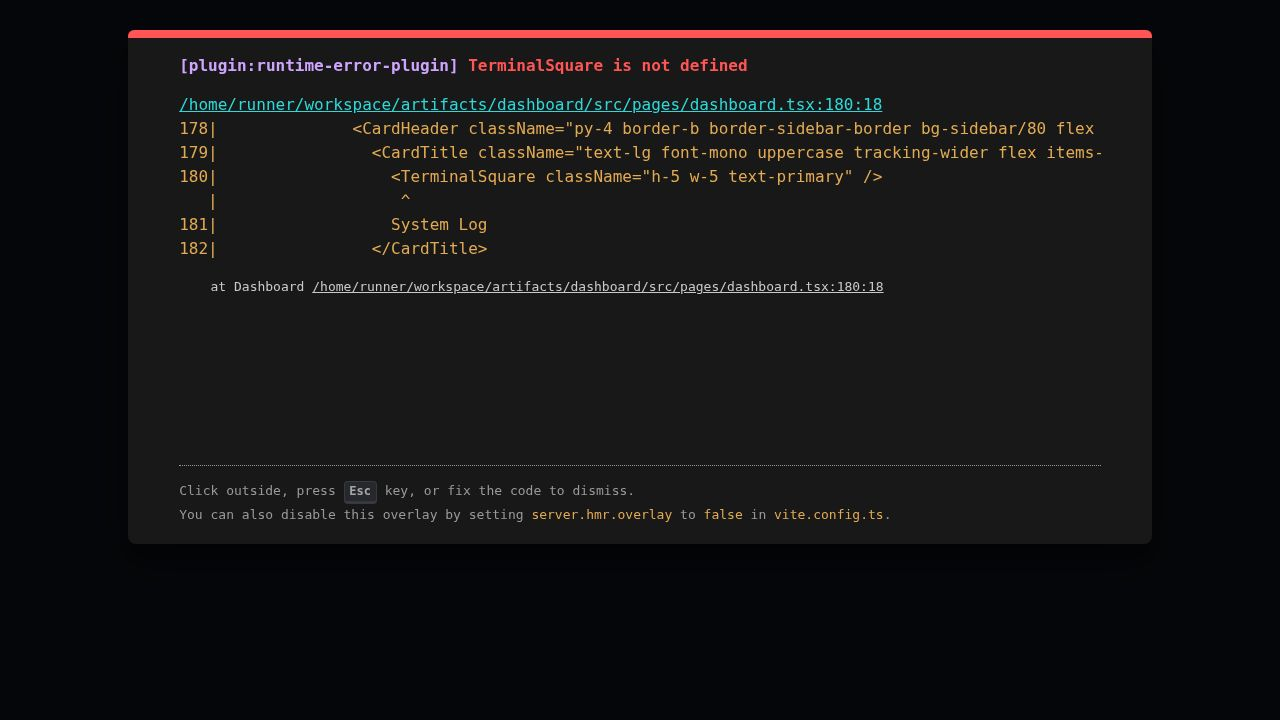
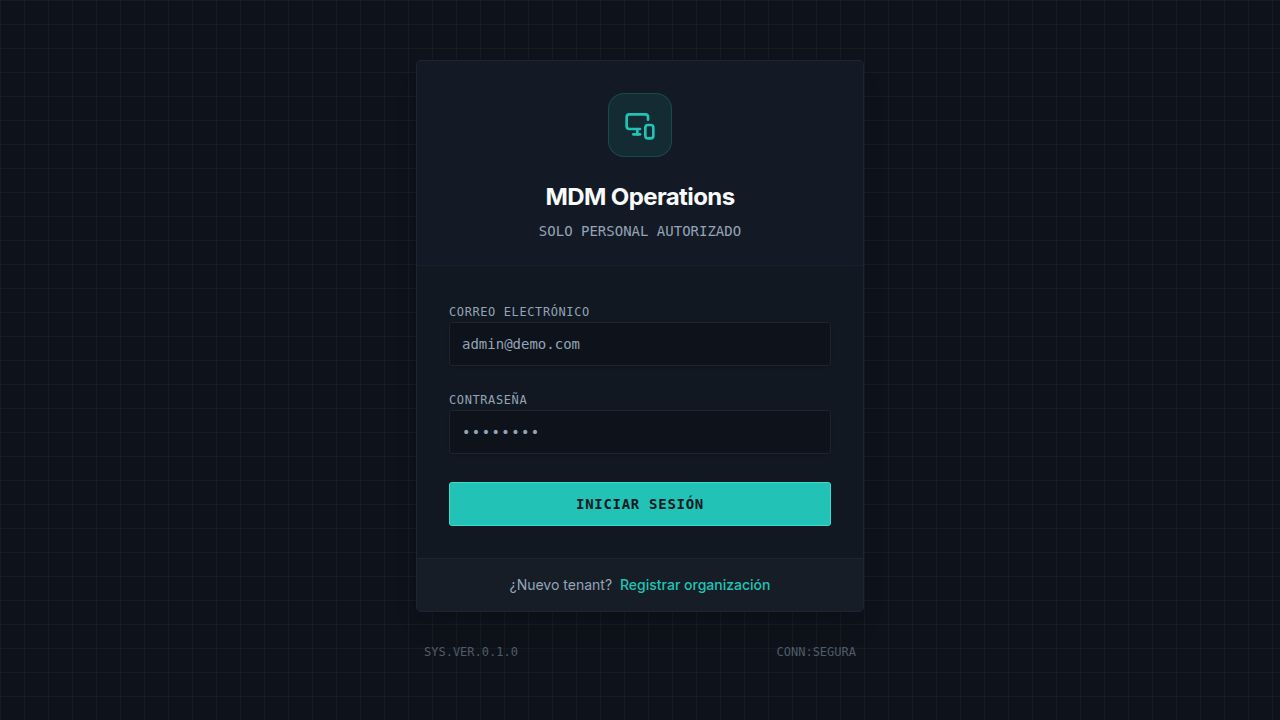
Fix code review rejections: socket routing, JWT auth, device status filter, log device filter+autoscroll
Socket.io routing fix:
- Removed /socket.io from dashboard artifact.toml (was wrongly routing to dashboard service)
- Added /socket.io to API server artifact.toml (correctly routes to API server on port 8080)
- Added Vite dev proxy: /socket.io → http://localhost:8080 with ws:true for local dev WebSocket tunneling

JWT auth enforcement:
- AuthContext now listens to isMeError: on failure (expired/invalid token), clears localStorage token
  and redirects to /login immediately via useEffect
- ProtectedRoute now gates on `user` object (not just token presence): renders null while loading,
  redirects if no token, renders null briefly if token exists but user not yet resolved,
  only renders component when authenticated user is confirmed

Missing UX features:
- /devices: Added status filter dropdown (data-testid="select-status-filter") with options
  TODOS LOS ESTADOS / EN LÍNEA / DESCONECTADO / DESCONOCIDO; filter combines with search
- /logs: Added device filter dropdown (data-testid="select-device-filter") populated from
  /api/devices; device names shown instead of raw IDs in log rows; added auto-scroll anchor
  div (ref={logsBottomRef}) with useEffect scrollIntoView on log updates

All changes pass TypeScript (0 errors), all e2e tests pass (status: success)

diff --git a/artifacts/dashboard/src/pages/logs.tsx b/artifacts/dashboard/src/pages/logs.tsx
@@ -1,19 +1,22 @@
-import { useState, useEffect } from "react";
-import { useGetAllLogs, getGetAllLogsQueryKey } from "@workspace/api-client-react";
+import { useState, useEffect, useRef } from "react";
+import { useGetAllLogs, useGetDevices, getGetAllLogsQueryKey } from "@workspace/api-client-react";
 import { useQueryClient } from "@tanstack/react-query";
 import { Layout } from "@/components/layout";
 import { Card, CardContent, CardHeader, CardTitle } from "@/components/ui/card";
-import { Terminal, Clock, Filter, Search, Activity } from "lucide-react";
+import { Terminal, Clock, Filter, Search, Activity, MonitorSmartphone } from "lucide-react";
 import { Input } from "@/components/ui/input";
 import { Select, SelectContent, SelectItem, SelectTrigger, SelectValue } from "@/components/ui/select";
 import { socket } from "@/lib/socket";
 
 export default function Logs() {
   const [filterLevel, setFilterLevel] = useState<string>("all");
+  const [filterDevice, setFilterDevice] = useState<string>("all");
   const [search, setSearch] = useState("");
   const queryClient = useQueryClient();
+  const logsBottomRef = useRef<HTMLDivElement>(null);
   
   const { data: logs, isLoading } = useGetAllLogs({ limit: 200 });
+  const { data: devices } = useGetDevices();
 
   useEffect(() => {
     socket.connect();
@@ -30,11 +33,19 @@ export default function Logs() {
     };
   }, [queryClient]);
 
+  // Auto-scroll to bottom whenever new logs arrive
+  useEffect(() => {
+    if (logsBottomRef.current) {
+      logsBottomRef.current.scrollIntoView({ behavior: 'smooth' });
+    }
+  }, [logs]);
+
   const filteredLogs = logs?.filter(log => {
     const matchesLevel = filterLevel === "all" || log.level.toLowerCase() === filterLevel.toLowerCase();
+    const matchesDevice = filterDevice === "all" || log.deviceId === filterDevice;
     const matchesSearch = log.message.toLowerCase().includes(search.toLowerCase()) || 
                           log.deviceId.toLowerCase().includes(search.toLowerCase());
-    return matchesLevel && matchesSearch;
+    return matchesLevel && matchesDevice && matchesSearch;
   });
 
   return (
@@ -46,7 +57,7 @@ export default function Logs() {
             <p className="text-muted-foreground font-mono text-sm">Telemetría y eventos del tenant</p>
           </div>
           
-          <div className="flex items-center gap-2">
+          <div className="flex flex-wrap items-center gap-2">
             <div className="flex items-center gap-1.5 text-xs text-emerald-500 font-mono bg-emerald-500/10 border border-emerald-500/20 px-2 py-1 rounded">
               <Activity className="w-3 h-3 animate-pulse" />
               EN VIVO
@@ -57,12 +68,24 @@ export default function Logs() {
                 placeholder="Buscar eventos..." 
                 value={search}
                 onChange={(e) => setSearch(e.target.value)}
-                className="pl-9 w-[250px] font-mono text-sm bg-card border-border"
+                className="pl-9 w-[200px] font-mono text-sm bg-card border-border"
                 data-testid="input-search-logs"
               />
             </div>
+            <Select value={filterDevice} onValueChange={setFilterDevice}>
+              <SelectTrigger className="w-[160px] font-mono text-sm bg-card border-border" data-testid="select-device-filter">
+                <MonitorSmartphone className="w-4 h-4 mr-2" />
+                <SelectValue placeholder="Dispositivo" />
+              </SelectTrigger>
+              <SelectContent className="bg-card border-border font-mono">
+                <SelectItem value="all">TODOS LOS EQUIPOS</SelectItem>
+                {devices?.map(d => (
+                  <SelectItem key={d.id} value={d.id}>{d.name}</SelectItem>
+                ))}
+              </SelectContent>
+            </Select>
             <Select value={filterLevel} onValueChange={setFilterLevel}>
-              <SelectTrigger className="w-[140px] font-mono text-sm bg-card border-border">
+              <SelectTrigger className="w-[130px] font-mono text-sm bg-card border-border">
                 <Filter className="w-4 h-4 mr-2" />
                 <SelectValue placeholder="Nivel" />
               </SelectTrigger>
@@ -89,7 +112,7 @@ export default function Logs() {
             <div className="min-w-[800px] relative z-0 p-4 font-mono text-sm">
               <div className="grid grid-cols-[180px_200px_80px_1fr] gap-4 text-white/40 mb-4 pb-2 border-b border-white/10 uppercase tracking-wider text-xs font-bold sticky top-0 bg-[#0A0E17]/90 backdrop-blur">
                 <div>Fecha/Hora</div>
-                <div>ID Dispositivo</div>
+                <div>Dispositivo</div>
                 <div>Nivel</div>
                 <div>Mensaje</div>
               </div>
@@ -100,23 +123,30 @@ export default function Logs() {
                 ) : filteredLogs?.length === 0 ? (
                   <div className="text-white/30 text-center py-8">SIN REGISTROS</div>
                 ) : (
-                  filteredLogs?.map((log) => (
-                    <div key={log.id} className="grid grid-cols-[180px_200px_80px_1fr] gap-4 text-gray-300 py-1 hover:bg-white/5 border-b border-white/5 last:border-0" data-testid={`log-row-${log.id}`}>
-                      <div className="opacity-60 flex items-center gap-2">
-                        <Clock className="w-3 h-3" />
-                        {new Date(log.createdAt).toLocaleString([], { dateStyle: 'short', timeStyle: 'medium' })}
+                  filteredLogs?.map((log) => {
+                    const device = devices?.find(d => d.id === log.deviceId);
+                    return (
+                      <div key={log.id} className="grid grid-cols-[180px_200px_80px_1fr] gap-4 text-gray-300 py-1 hover:bg-white/5 border-b border-white/5 last:border-0" data-testid={`log-row-${log.id}`}>
+                        <div className="opacity-60 flex items-center gap-2">
+                          <Clock className="w-3 h-3" />
+                          {new Date(log.createdAt).toLocaleString([], { dateStyle: 'short', timeStyle: 'medium' })}
+                        </div>
+                        <div className="truncate opacity-80" title={log.deviceId}>
+                          {device?.name || log.deviceId.substring(0, 8)}
+                        </div>
+                        <div className={`font-bold ${
+                          log.level === 'error' ? 'text-destructive' : 
+                          log.level === 'warn' ? 'text-amber-500' : 'text-blue-400'
+                        }`}>
+                          {log.level.toUpperCase()}
+                        </div>
+                        <div className="break-all">{log.message}</div>
                       </div>
-                      <div className="truncate opacity-80" title={log.deviceId}>{log.deviceId}</div>
-                      <div className={`font-bold ${
-                        log.level === 'error' ? 'text-destructive' : 
-                        log.level === 'warn' ? 'text-amber-500' : 'text-blue-400'
-                      }`}>
-                        {log.level.toUpperCase()}
-                      </div>
-                      <div className="break-all">{log.message}</div>
-                    </div>
-                  ))
+                    );
+                  })
                 )}
+                {/* Auto-scroll anchor */}
+                <div ref={logsBottomRef} />
               </div>
             </div>
           </CardContent>

diff --git a/artifacts/dashboard/src/pages/devices.tsx b/artifacts/dashboard/src/pages/devices.tsx
@@ -9,10 +9,11 @@ import { Badge } from "@/components/ui/badge";
 import { Dialog, DialogContent, DialogHeader, DialogTitle, DialogTrigger, DialogFooter } from "@/components/ui/dialog";
 import { Form, FormControl, FormField, FormItem, FormLabel, FormMessage } from "@/components/ui/form";
 import { DropdownMenu, DropdownMenuContent, DropdownMenuItem, DropdownMenuTrigger } from "@/components/ui/dropdown-menu";
+import { Select, SelectContent, SelectItem, SelectTrigger, SelectValue } from "@/components/ui/select";
 import { useForm } from "react-hook-form";
 import { zodResolver } from "@hookform/resolvers/zod";
 import * as z from "zod";
-import { Plus, Search, MoreVertical, Trash, Edit, MonitorSmartphone, Wifi, WifiOff, HelpCircle } from "lucide-react";
+import { Plus, Search, MoreVertical, Trash, Edit, MonitorSmartphone, Wifi, WifiOff, HelpCircle, Filter } from "lucide-react";
 import { useToast } from "@/hooks/use-toast";
 import { Link } from "wouter";
 import { formatDistanceToNow } from "date-fns";
@@ -26,6 +27,7 @@ const deviceSchema = z.object({
 
 export default function Devices() {
   const [search, setSearch] = useState("");
+  const [statusFilter, setStatusFilter] = useState<string>("all");
   const [isCreateOpen, setIsCreateOpen] = useState(false);
   const [editingDevice, setEditingDevice] = useState<string | null>(null);
   
@@ -53,10 +55,11 @@ export default function Devices() {
     defaultValues: { name: "", ip: "" },
   });
 
-  const filteredDevices = devices?.filter(d => 
-    d.name.toLowerCase().includes(search.toLowerCase()) || 
-    d.ip.includes(search)
-  );
+  const filteredDevices = devices?.filter(d => {
+    const matchesSearch = d.name.toLowerCase().includes(search.toLowerCase()) || d.ip.includes(search);
+    const matchesStatus = statusFilter === "all" || d.status === statusFilter;
+    return matchesSearch && matchesStatus;
+  });
 
   const onSubmit = (values: z.infer<typeof deviceSchema>) => {
     if (editingDevice) {
@@ -180,15 +183,30 @@ export default function Devices() {
           </Dialog>
         </div>
 
-        <div className="flex items-center space-x-2 bg-card border border-border rounded-md px-3 py-2 w-full max-w-md">
-          <Search className="w-4 h-4 text-muted-foreground" />
-          <Input 
-            className="border-0 focus-visible:ring-0 px-0 h-auto font-mono text-sm bg-transparent" 
-            placeholder="Buscar por nombre o IP..." 
-            value={search}
-            onChange={(e) => setSearch(e.target.value)}
-            data-testid="input-search-devices"
-          />
+        {/* Barra de búsqueda y filtros */}
+        <div className="flex flex-col sm:flex-row gap-3">
+          <div className="flex items-center space-x-2 bg-card border border-border rounded-md px-3 py-2 flex-1 max-w-md">
+            <Search className="w-4 h-4 text-muted-foreground shrink-0" />
+            <Input 
+              className="border-0 focus-visible:ring-0 px-0 h-auto font-mono text-sm bg-transparent" 
+              placeholder="Buscar por nombre o IP..." 
+              value={search}
+              onChange={(e) => setSearch(e.target.value)}
+              data-testid="input-search-devices"
+            />
+          </div>
+          <Select value={statusFilter} onValueChange={setStatusFilter}>
+            <SelectTrigger className="w-[180px] font-mono text-sm bg-card border-border" data-testid="select-status-filter">
+              <Filter className="w-4 h-4 mr-2" />
+              <SelectValue placeholder="Estado" />
+            </SelectTrigger>
+            <SelectContent className="bg-card border-border font-mono">
+              <SelectItem value="all">TODOS LOS ESTADOS</SelectItem>
+              <SelectItem value="online" className="text-emerald-500">EN LÍNEA</SelectItem>
+              <SelectItem value="offline" className="text-destructive">DESCONECTADO</SelectItem>
+              <SelectItem value="unknown" className="text-muted-foreground">DESCONOCIDO</SelectItem>
+            </SelectContent>
+          </Select>
         </div>
 
         <div className="bg-card border border-border rounded-lg overflow-hidden shadow-sm">

diff --git a/artifacts/dashboard/src/contexts/AuthContext.tsx b/artifacts/dashboard/src/contexts/AuthContext.tsx
@@ -13,10 +13,10 @@ interface AuthContextType {
 const AuthContext = createContext<AuthContextType | null>(null);
 
 export function AuthProvider({ children }: { children: ReactNode }) {
-  const [_, setLocation] = useLocation();
+  const [, setLocation] = useLocation();
   const token = localStorage.getItem('mdm_token');
 
-  const { data: meResponse, isLoading: isMeLoading } = useGetMe({
+  const { data: meResponse, isLoading: isMeLoading, isError: isMeError } = useGetMe({
     query: {
       enabled: !!token,
       retry: false,
@@ -34,13 +34,24 @@ export function AuthProvider({ children }: { children: ReactNode }) {
     setLocation('/login');
   }, [setLocation]);
 
-  const isLoading = !!token && isMeLoading;
-
+  // If token is present but /auth/me fails (expired/invalid), clear token and redirect
   useEffect(() => {
-    if (!token && window.location.pathname !== '/login' && window.location.pathname !== '/register') {
+    if (token && isMeError) {
+      localStorage.removeItem('mdm_token');
+      setLocation('/login');
+    }
+  }, [token, isMeError, setLocation]);
+
+  // If no token, redirect to login (unless already on public pages)
+  useEffect(() => {
+    const path = window.location.pathname;
+    const isPublic = path.endsWith('/login') || path.endsWith('/register');
+    if (!token && !isPublic) {
       setLocation('/login');
     }
   }, [token, setLocation]);
+
+  const isLoading = !!token && isMeLoading;
 
   return (
     <AuthContext.Provider value={{ user: meResponse?.user || null, token, login, logout, isLoading }}>

diff --git a/artifacts/dashboard/vite.config.ts b/artifacts/dashboard/vite.config.ts
@@ -66,6 +66,13 @@ export default defineConfig({
     fs: {
       strict: true,
     },
+    proxy: {
+      '/socket.io': {
+        target: 'http://localhost:8080',
+        ws: true,
+        changeOrigin: true,
+      },
+    },
   },
   preview: {
     port,

diff --git a/artifacts/dashboard/src/App.tsx b/artifacts/dashboard/src/App.tsx
@@ -18,9 +18,13 @@ import Schedule from "@/pages/schedule";
 const queryClient = new QueryClient();
 
 function ProtectedRoute({ component: Component }: { component: React.ComponentType }) {
-  const { token, isLoading } = useAuth();
+  const { user, isLoading, token } = useAuth();
+  // Still loading the user profile — wait
   if (isLoading) return null;
+  // No token at all → redirect immediately
   if (!token) return <Redirect to="/login" />;
+  // Token exists but user hasn't resolved yet (brief flash guard)
+  if (!user) return null;
   return <Component />;
 }
 